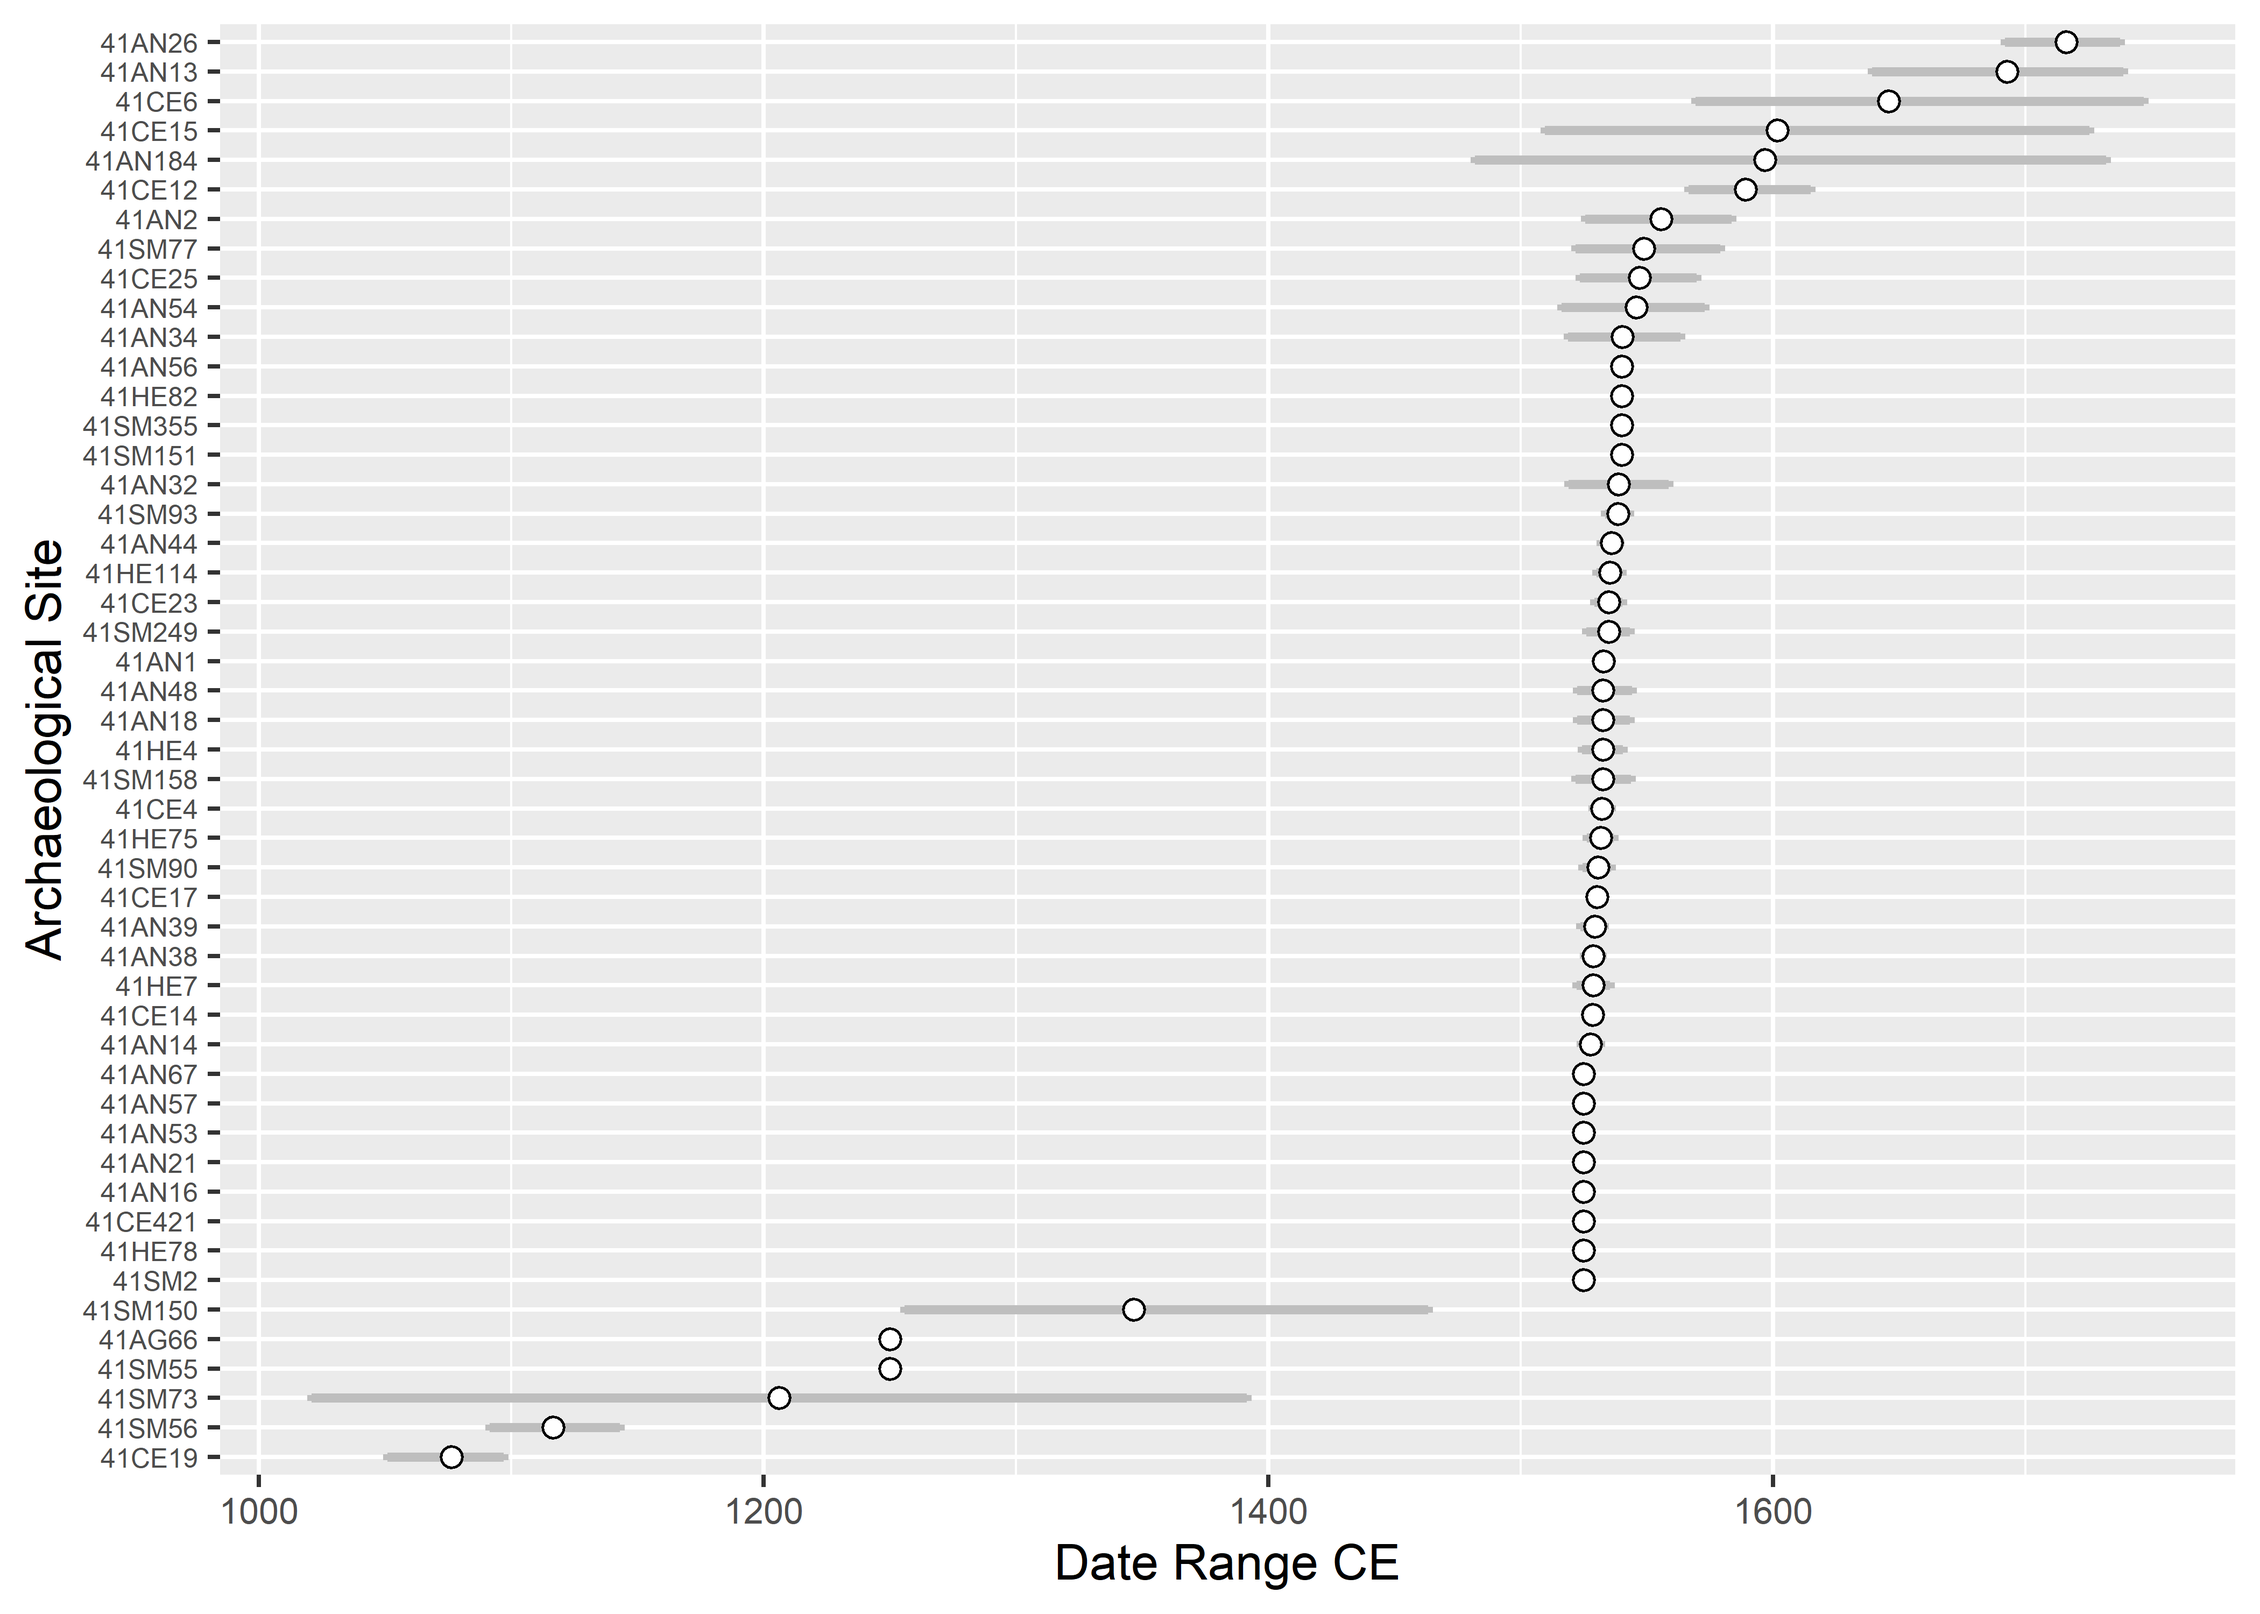
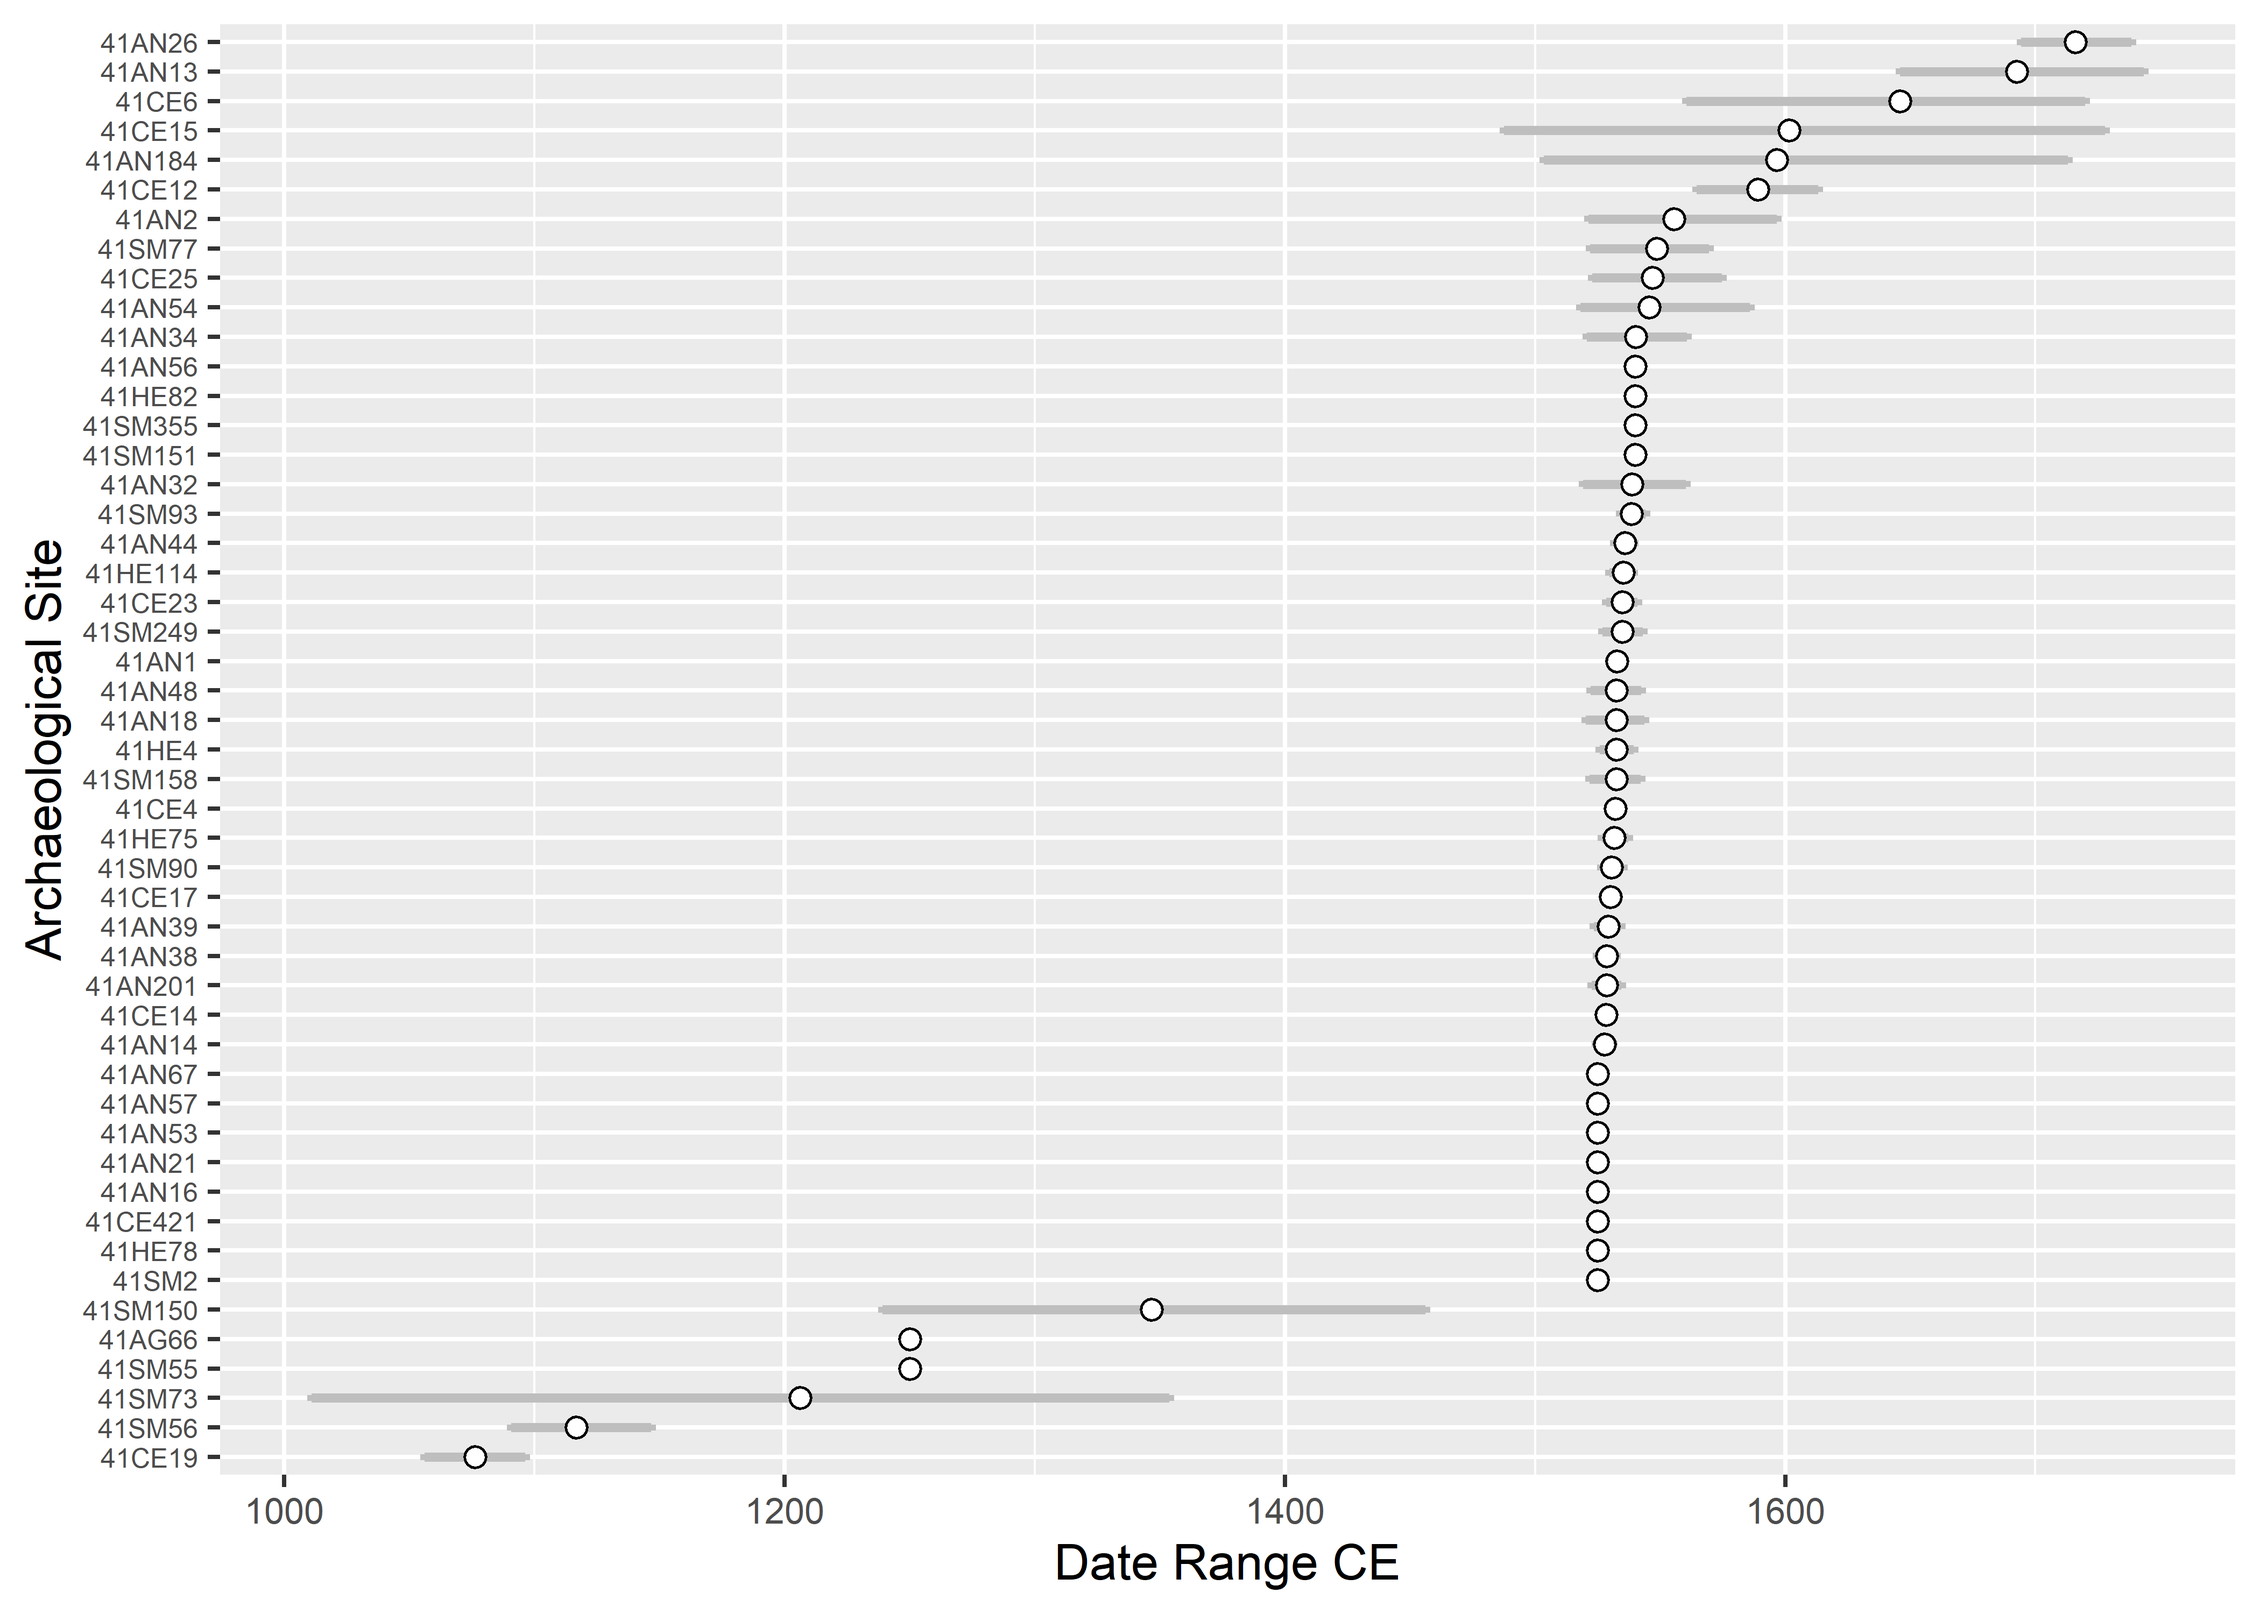
<41HE7 to 41AN201>

diff --git a/mcd.md b/mcd.md
@@ -111,51 +111,51 @@ caddo # table that includes the site, mean ceramic date, and the lower/higher va
 ```
 
     ##       site      mcd    lower   higher
-    ## 1   41SM56 1116.667 1091.557 1143.137
+    ## 1   41SM56 1116.667 1090.707 1146.707
     ## 2   41SM55 1250.000 1250.000 1250.000
-    ## 3   41SM77 1548.750 1521.750 1579.087
-    ## 4   41SM90 1530.625 1524.427 1535.675
-    ## 5   41SM73 1206.250 1020.958 1391.542
-    ## 6   41SM93 1538.500 1533.441 1543.069
+    ## 3   41SM77 1548.750 1521.921 1569.457
+    ## 4   41SM90 1530.625 1526.635 1535.074
+    ## 5   41SM73 1206.250 1010.959 1353.837
+    ## 6   41SM93 1538.500 1534.067 1544.096
     ## 7  41SM151 1540.000 1540.000 1540.000
-    ## 8  41SM158 1532.500 1521.632 1543.674
-    ## 9  41SM249 1535.000 1525.910 1543.274
-    ## 10 41SM150 1346.667 1255.759 1463.221
+    ## 8  41SM158 1532.500 1521.906 1542.176
+    ## 9  41SM249 1535.000 1526.998 1543.002
+    ## 10 41SM150 1346.667 1239.140 1456.166
     ## 11 41SM355 1540.000 1540.000 1540.000
     ## 12   41SM2 1525.000 1525.000 1525.000
-    ## 13 41HE114 1535.263 1530.072 1540.036
-    ## 14   41HE4 1532.500 1524.273 1540.421
-    ## 15  41HE75 1531.667 1526.245 1536.816
+    ## 13 41HE114 1535.263 1529.832 1539.180
+    ## 14   41HE4 1532.500 1525.952 1539.507
+    ## 15  41HE75 1531.667 1526.652 1537.294
     ## 16  41HE78 1525.000 1525.000 1525.000
     ## 17  41HE82 1540.000 1540.000 1540.000
-    ## 18   41HE7 1528.750 1522.210 1535.290
-    ## 19   41CE4 1532.143 1528.587 1535.845
-    ## 20  41CE12 1589.135 1566.572 1614.986
-    ## 21  41CE14 1528.571 1527.507 1529.758
-    ## 22  41CE15 1601.667 1509.645 1725.253
-    ## 23  41CE17 1530.192 1527.630 1532.849
-    ## 24  41CE19 1076.273 1050.923 1096.959
-    ## 25  41CE23 1535.000 1529.158 1540.230
-    ## 26  41CE25 1547.000 1523.457 1569.653
+    ## 18 41AN201 1528.750 1522.603 1534.591
+    ## 19   41CE4 1532.143 1529.680 1534.780
+    ## 20  41CE12 1589.135 1564.603 1613.211
+    ## 21  41CE14 1528.571 1527.127 1529.741
+    ## 22  41CE15 1601.667 1487.657 1727.989
+    ## 23  41CE17 1530.192 1527.091 1532.870
+    ## 24  41CE19 1076.273 1056.064 1096.252
+    ## 25  41CE23 1535.000 1528.559 1540.930
+    ## 26  41CE25 1547.000 1522.839 1574.688
     ## 27 41CE421 1525.000 1525.000 1525.000
-    ## 28   41CE6 1645.833 1569.215 1746.772
-    ## 29   41AN1 1532.759 1529.864 1535.843
-    ## 30  41AN13 1692.692 1639.221 1738.675
-    ## 31  41AN14 1527.727 1523.777 1531.566
+    ## 28   41CE6 1645.833 1560.554 1719.990
+    ## 29   41AN1 1532.759 1529.776 1535.656
+    ## 30  41AN13 1692.692 1645.908 1743.292
+    ## 31  41AN14 1527.727 1524.320 1531.134
     ## 32  41AN16 1525.000 1525.000 1525.000
-    ## 33  41AN18 1532.500 1522.429 1543.183
-    ## 34 41AN184 1596.667 1481.924 1731.886
-    ## 35   41AN2 1555.625 1525.583 1583.563
+    ## 33  41AN18 1532.500 1520.262 1543.819
+    ## 34 41AN184 1596.667 1503.616 1713.118
+    ## 35   41AN2 1555.625 1521.264 1596.567
     ## 36  41AN21 1525.000 1525.000 1525.000
-    ## 37  41AN26 1716.111 1691.747 1737.550
-    ## 38  41AN32 1538.750 1518.906 1558.574
-    ## 39  41AN34 1540.278 1518.689 1563.261
-    ## 40  41AN38 1528.750 1525.082 1532.214
-    ## 41  41AN39 1529.286 1523.722 1533.100
-    ## 42  41AN44 1535.909 1531.819 1539.220
-    ## 43  41AN48 1532.500 1522.345 1544.186
+    ## 37  41AN26 1716.111 1694.373 1738.499
+    ## 38  41AN32 1538.750 1519.315 1560.236
+    ## 39  41AN34 1540.278 1520.727 1560.793
+    ## 40  41AN38 1528.750 1524.806 1532.439
+    ## 41  41AN39 1529.286 1523.626 1534.334
+    ## 42  41AN44 1535.909 1531.736 1539.415
+    ## 43  41AN48 1532.500 1522.176 1542.518
     ## 44  41AN53 1525.000 1525.000 1525.000
-    ## 45  41AN54 1545.714 1516.179 1572.874
+    ## 45  41AN54 1545.714 1518.082 1585.926
     ## 46  41AN56 1540.000 1540.000 1540.000
     ## 47  41AN57 1525.000 1525.000 1525.000
     ## 48  41AN67 1525.000 1525.000 1525.000
